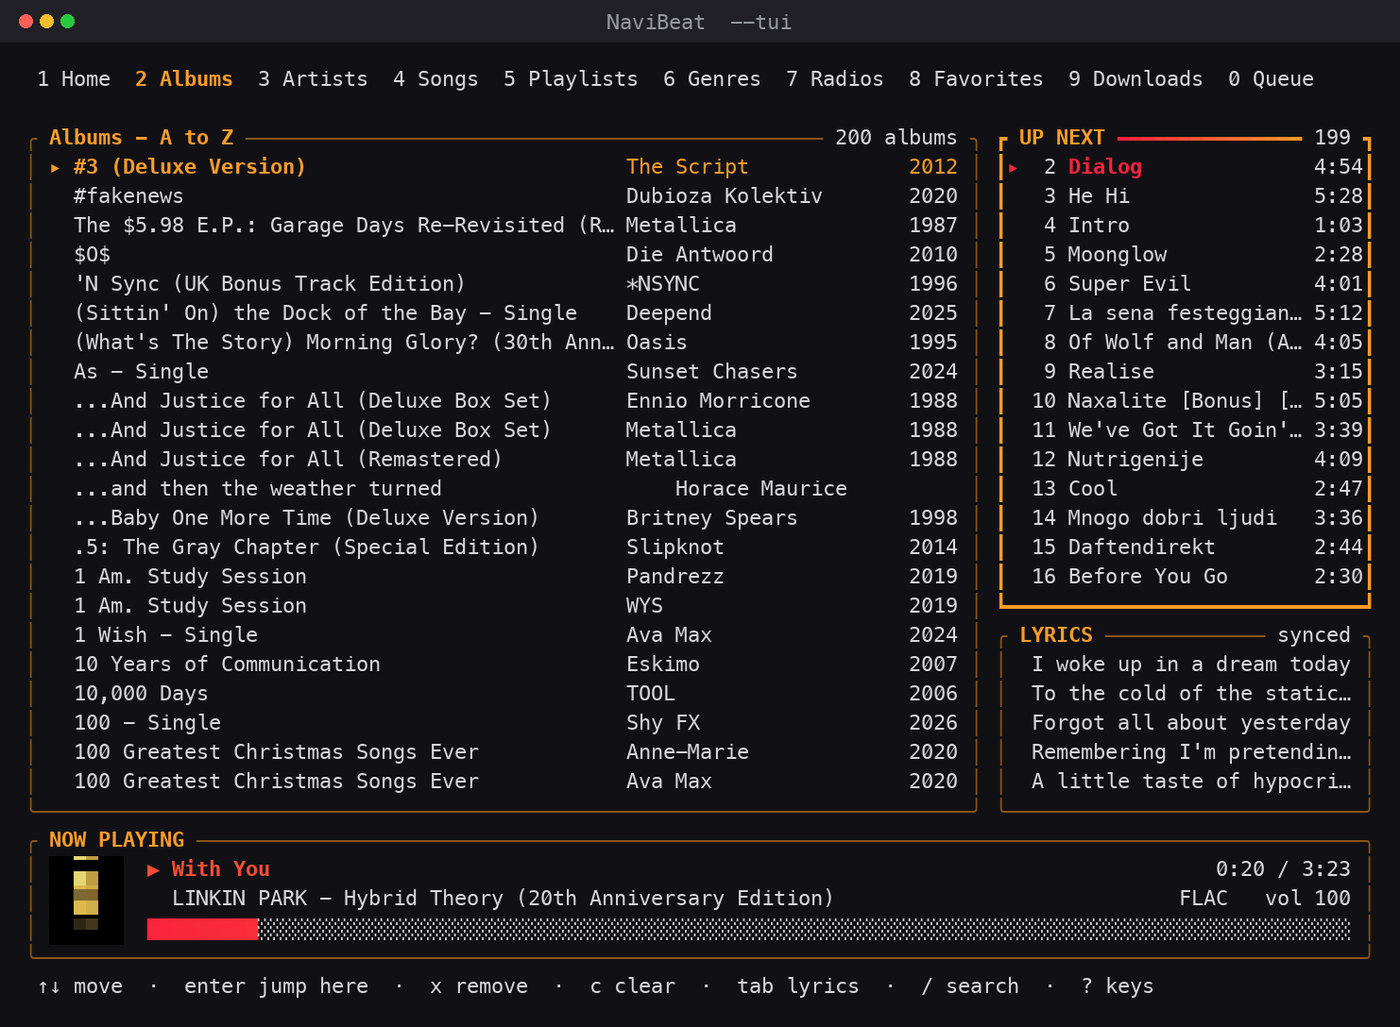
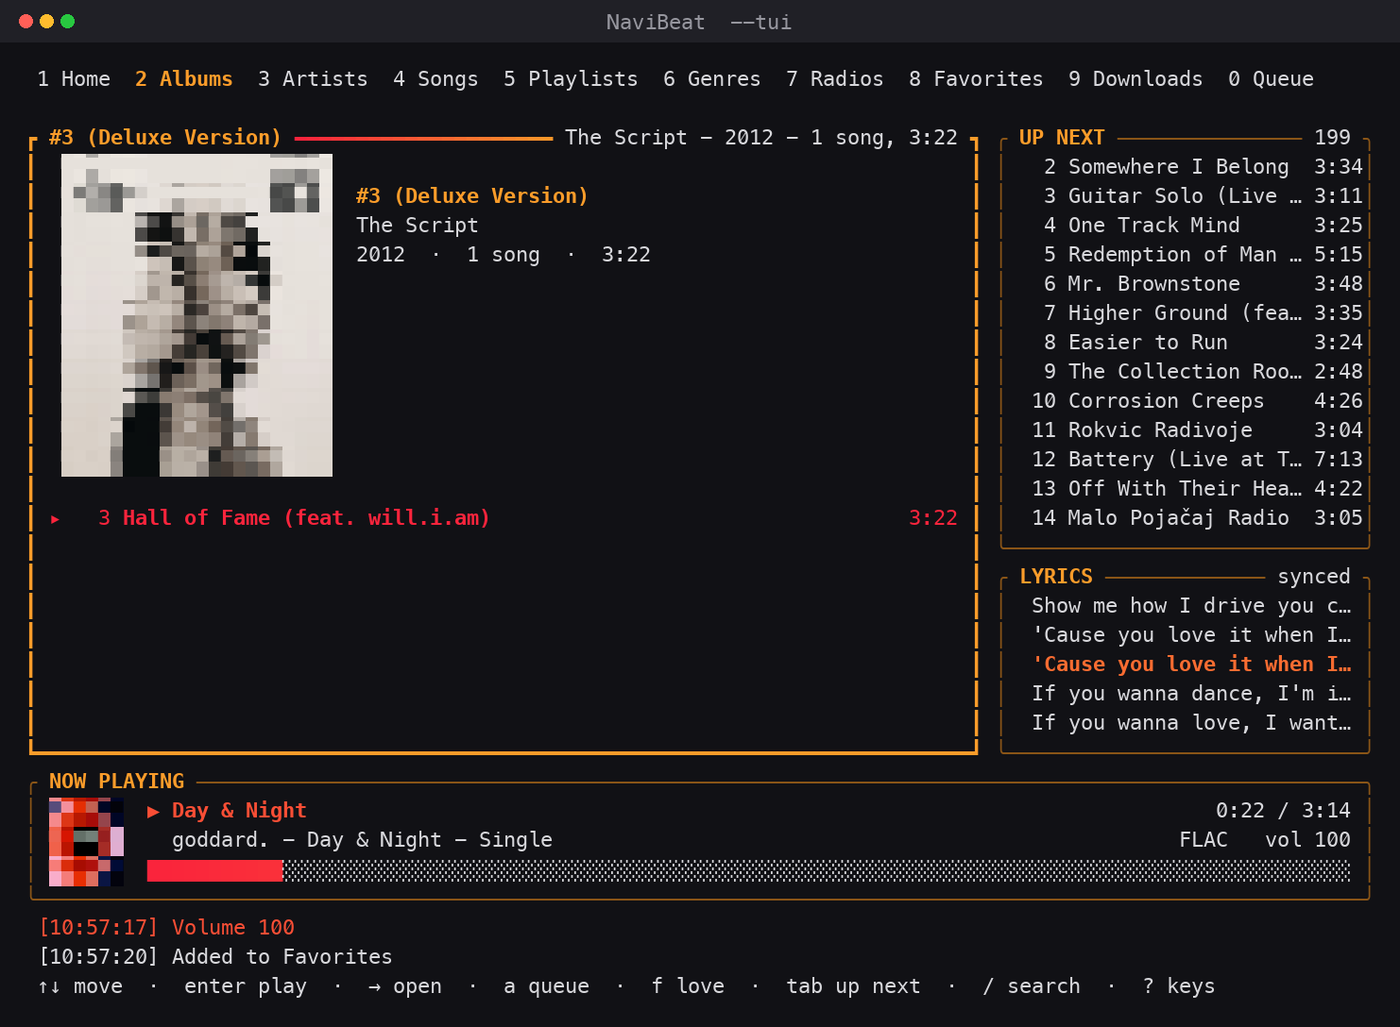
README: the activity log, and a screenshot that shows it

Changed region(s): [[0.0, 0.1246, 0.9829, 0.9659]]

diff --git a/README.md b/README.md
@@ -133,7 +133,7 @@ as the window.
 
 <div align="center">
 
-<img src="docs/img/tui.png" alt="NaviBeat's terminal client: an album page with cover art drawn in terminal cells, Up Next and time-synced lyrics in their own framed sections on the right, and a framed now playing bar" width="92%">
+<img src="docs/img/tui.png" alt="NaviBeat's terminal client: an album page with cover art drawn in terminal cells, Up Next and time-synced lyrics in their own framed sections, a framed now playing bar, and two timestamped log lines above it" width="92%">
 
 </div>
 
@@ -149,6 +149,9 @@ where you are without reading anything.
   Favorites, Downloads and the Queue, with album, artist, playlist and genre screens behind them.
 - **Search your server** with `/`, filter what is on screen with `F`, turn the side panes on or off
   for any screen with `w`.
+- **A log with the time on it.** Two lines above the transport say what you just queued, favourited
+  or downloaded, and they stay, so an action taken while you were looking elsewhere leaves a trace.
+  **Activity** on Home has the whole session.
 - **playerctl and your media keys** see it, exactly as they see the window.
 - **Pairing on first run**, so a headless machine never needs a desktop to get started.
 

diff --git a/CHANGELOG.md b/CHANGELOG.md
@@ -3,6 +3,12 @@
 Every release attaches a fresh AppImage. Newest first. Each version's full note is on its
 [release page](../../releases).
 
+## 0.9.57 (beta)
+
+- **A log with the time on it** above the transport: what you queued, favourited or downloaded, kept
+  on screen instead of a toast you missed. It appears only while something is recent, and **Activity**
+  on Home has the whole session.
+
 ## 0.9.56 (beta)
 
 **The terminal client stops being a list.**
